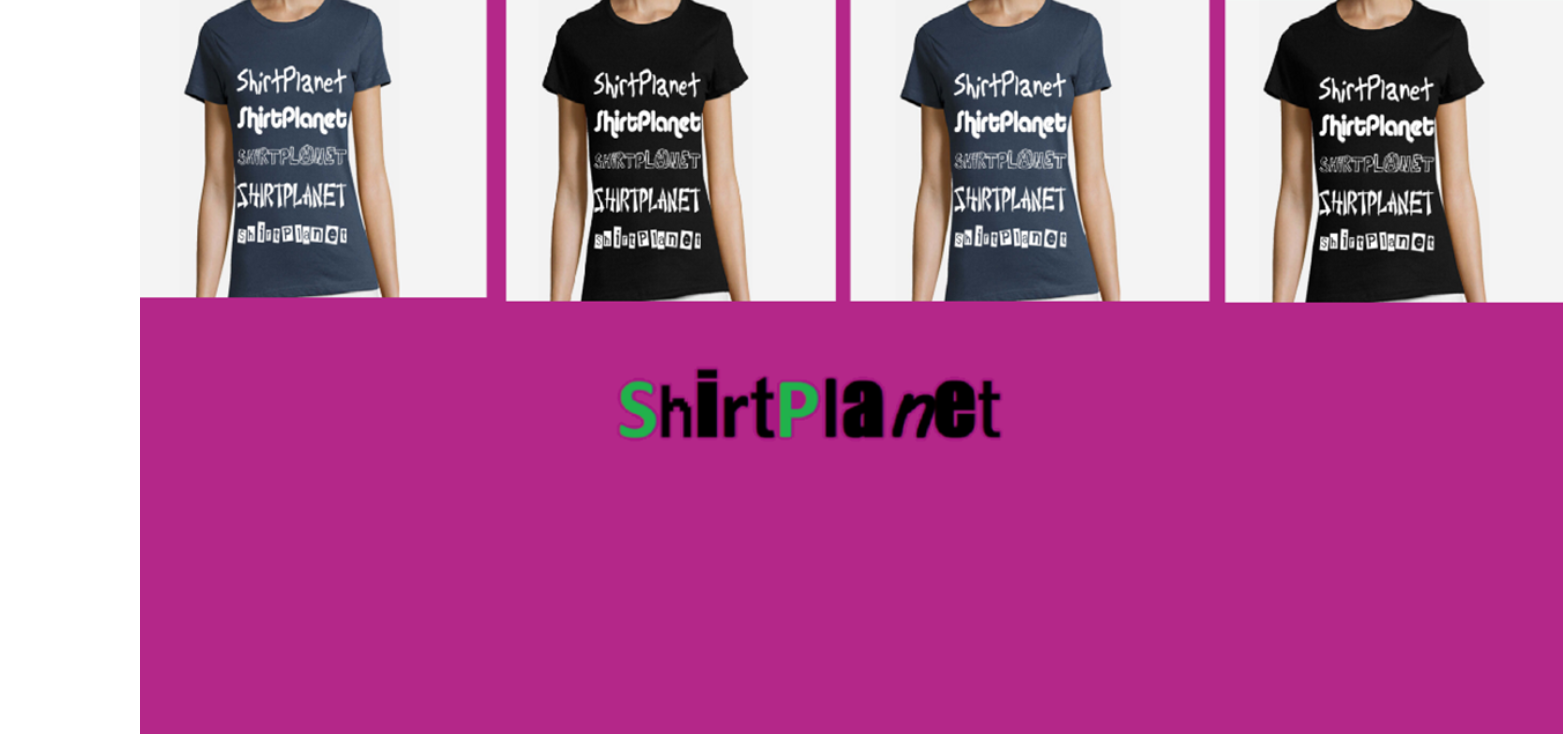
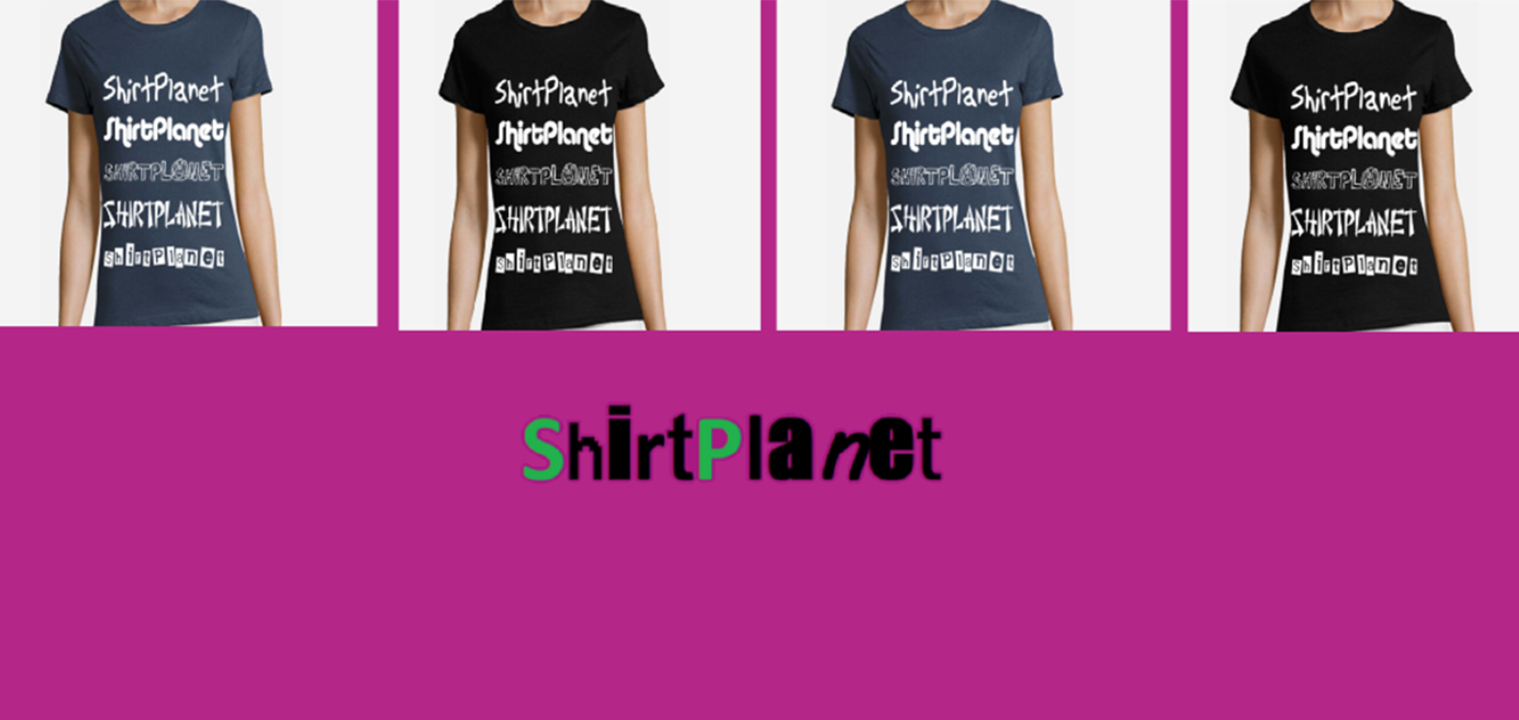
first commit

diff --git a/css/styles.css b/css/styles.css
@@ -293,3 +293,17 @@
             width: 80%;
         }
     }
+    
+    @media screen and (max-width:667px) {
+        html {
+            width: 375px;
+            height: 667px;
+        }
+        div .column-2 {
+            width: 100%;
+            float: left;
+        }
+        .móbil2 {
+            width: 85%;
+        }
+    }

diff --git a/index.php b/index.php
@@ -48,10 +48,10 @@
                 <img src="./img/FONDO HOMBRES.png" alt="">
             </section>
             <section class="contenido-slider">
-                <img class="img10" src="./img/FONDO MUJERES.png" alt="">
+                <img class="img10" src="./img/FONDO MUJERES2.png" alt="">
             </section>
             <section class="contenido-slider">
-                <img class="img11" src="./img/fondooooooooooooooo.png" alt="">
+                <img class="img11" src="./img/fondooooooooooooooo2.png" alt="">
             </section>
             <section class="contenido-slider">
                 <img src="./img/4o fondoooooooooooooooooooo.png" alt="">
@@ -60,7 +60,7 @@
     </div>
     <script src="./js/main.js"></script>
     <div class="row fondo-txt">
-        <div id="header" class="column-2">
+        <div id="header" class="column-2 móbil2">
             <h2 class="cont-font wh-txt" style="padding-left: 20px; padding-top: 25px;"><b><u>Quienes somos?</u></b></h2>
             <p class="cont-font wh-txt" style="padding-left: 20px; padding-top: 10px;">ShirtPlanet es una empresa especializada en la creación de camisetas personalizadas con diseños originales, para hombre y mujer.</p>
             <p class="cont-font wh-txt" style="padding-left: 20px; padding-top: 10px;">Llevamos más de 3 años creando nuevos diseños y trabajando para mejorar la experiencia del cliente. Por eso hemos decidido crear esta página web para que los interesados en nuestros productos, puedan comprar de forma online.</p>
